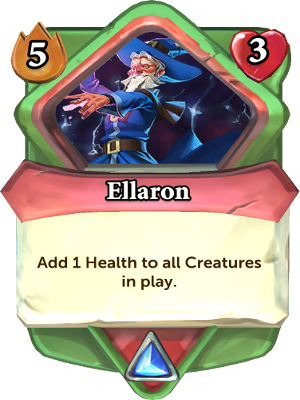
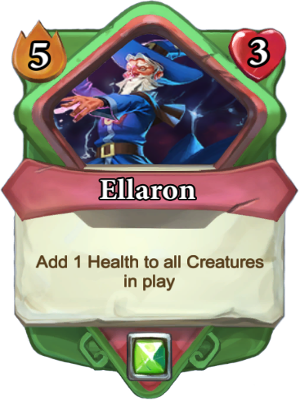
Fixed Ellaron image (It's an Emerald) Fixed reference to Wise Old Man image.

diff --git a/Dungeoneering/Migrations/CardData.cs b/Dungeoneering/Migrations/CardData.cs
@@ -2437,7 +2437,7 @@ namespace Merwer.Chronicle.Dungeoneering.Tracker.Migrations
             cards.Add(new Card { Id = 401, Rewards = new CardRewards { Attack = 1, Armour = 12, Health = 0, Coins = 0, Weapon = false }, Image = "/Content/img/cards/Ranis_Drakan_v1482056.png", Version = "1482056", Cost = 0, Health = 9, Active = true, Parent = containers.Single(p => p.Id == 302) });
             scores.Add(new CardScore { Id = 1065, Archetype = Archetype.Vanescula, Score = -1, Card = cards.Single(c => c.Id == 401) });
 
-            cards.Add(new Card { Id = 402, Rewards = new CardRewards { Attack = 0, Armour = 0, Health = 0, Coins = 0, Weapon = false }, Image = "/Content/img/cards/Wise_Old_Man_v1482056.png", Version = "1482056", Cost = 5, Health = 0, Active = true, Parent = containers.Single(p => p.Id == 323) });
+            cards.Add(new Card { Id = 402, Rewards = new CardRewards { Attack = 0, Armour = 0, Health = 0, Coins = 0, Weapon = false }, Image = "/Content/img/cards/Wise_Old_Man.png", Version = "1482056", Cost = 5, Health = 0, Active = true, Parent = containers.Single(p => p.Id == 323) });
             scores.Add(new CardScore { Id = 1066, Archetype = Archetype.Ariane, Score = 10, Card = cards.Single(c => c.Id == 402) });
 
             cards.Add(new Card { Id = 403, Rewards = new CardRewards { Attack = 0, Armour = 0, Health = 0, Coins = 0, Weapon = false }, Image = "/Content/img/cards/Zulrah_v1482056.png", Version = "1482056", Cost = 0, Health = 8, Active = true, Parent = containers.Single(p => p.Id == 329) });
